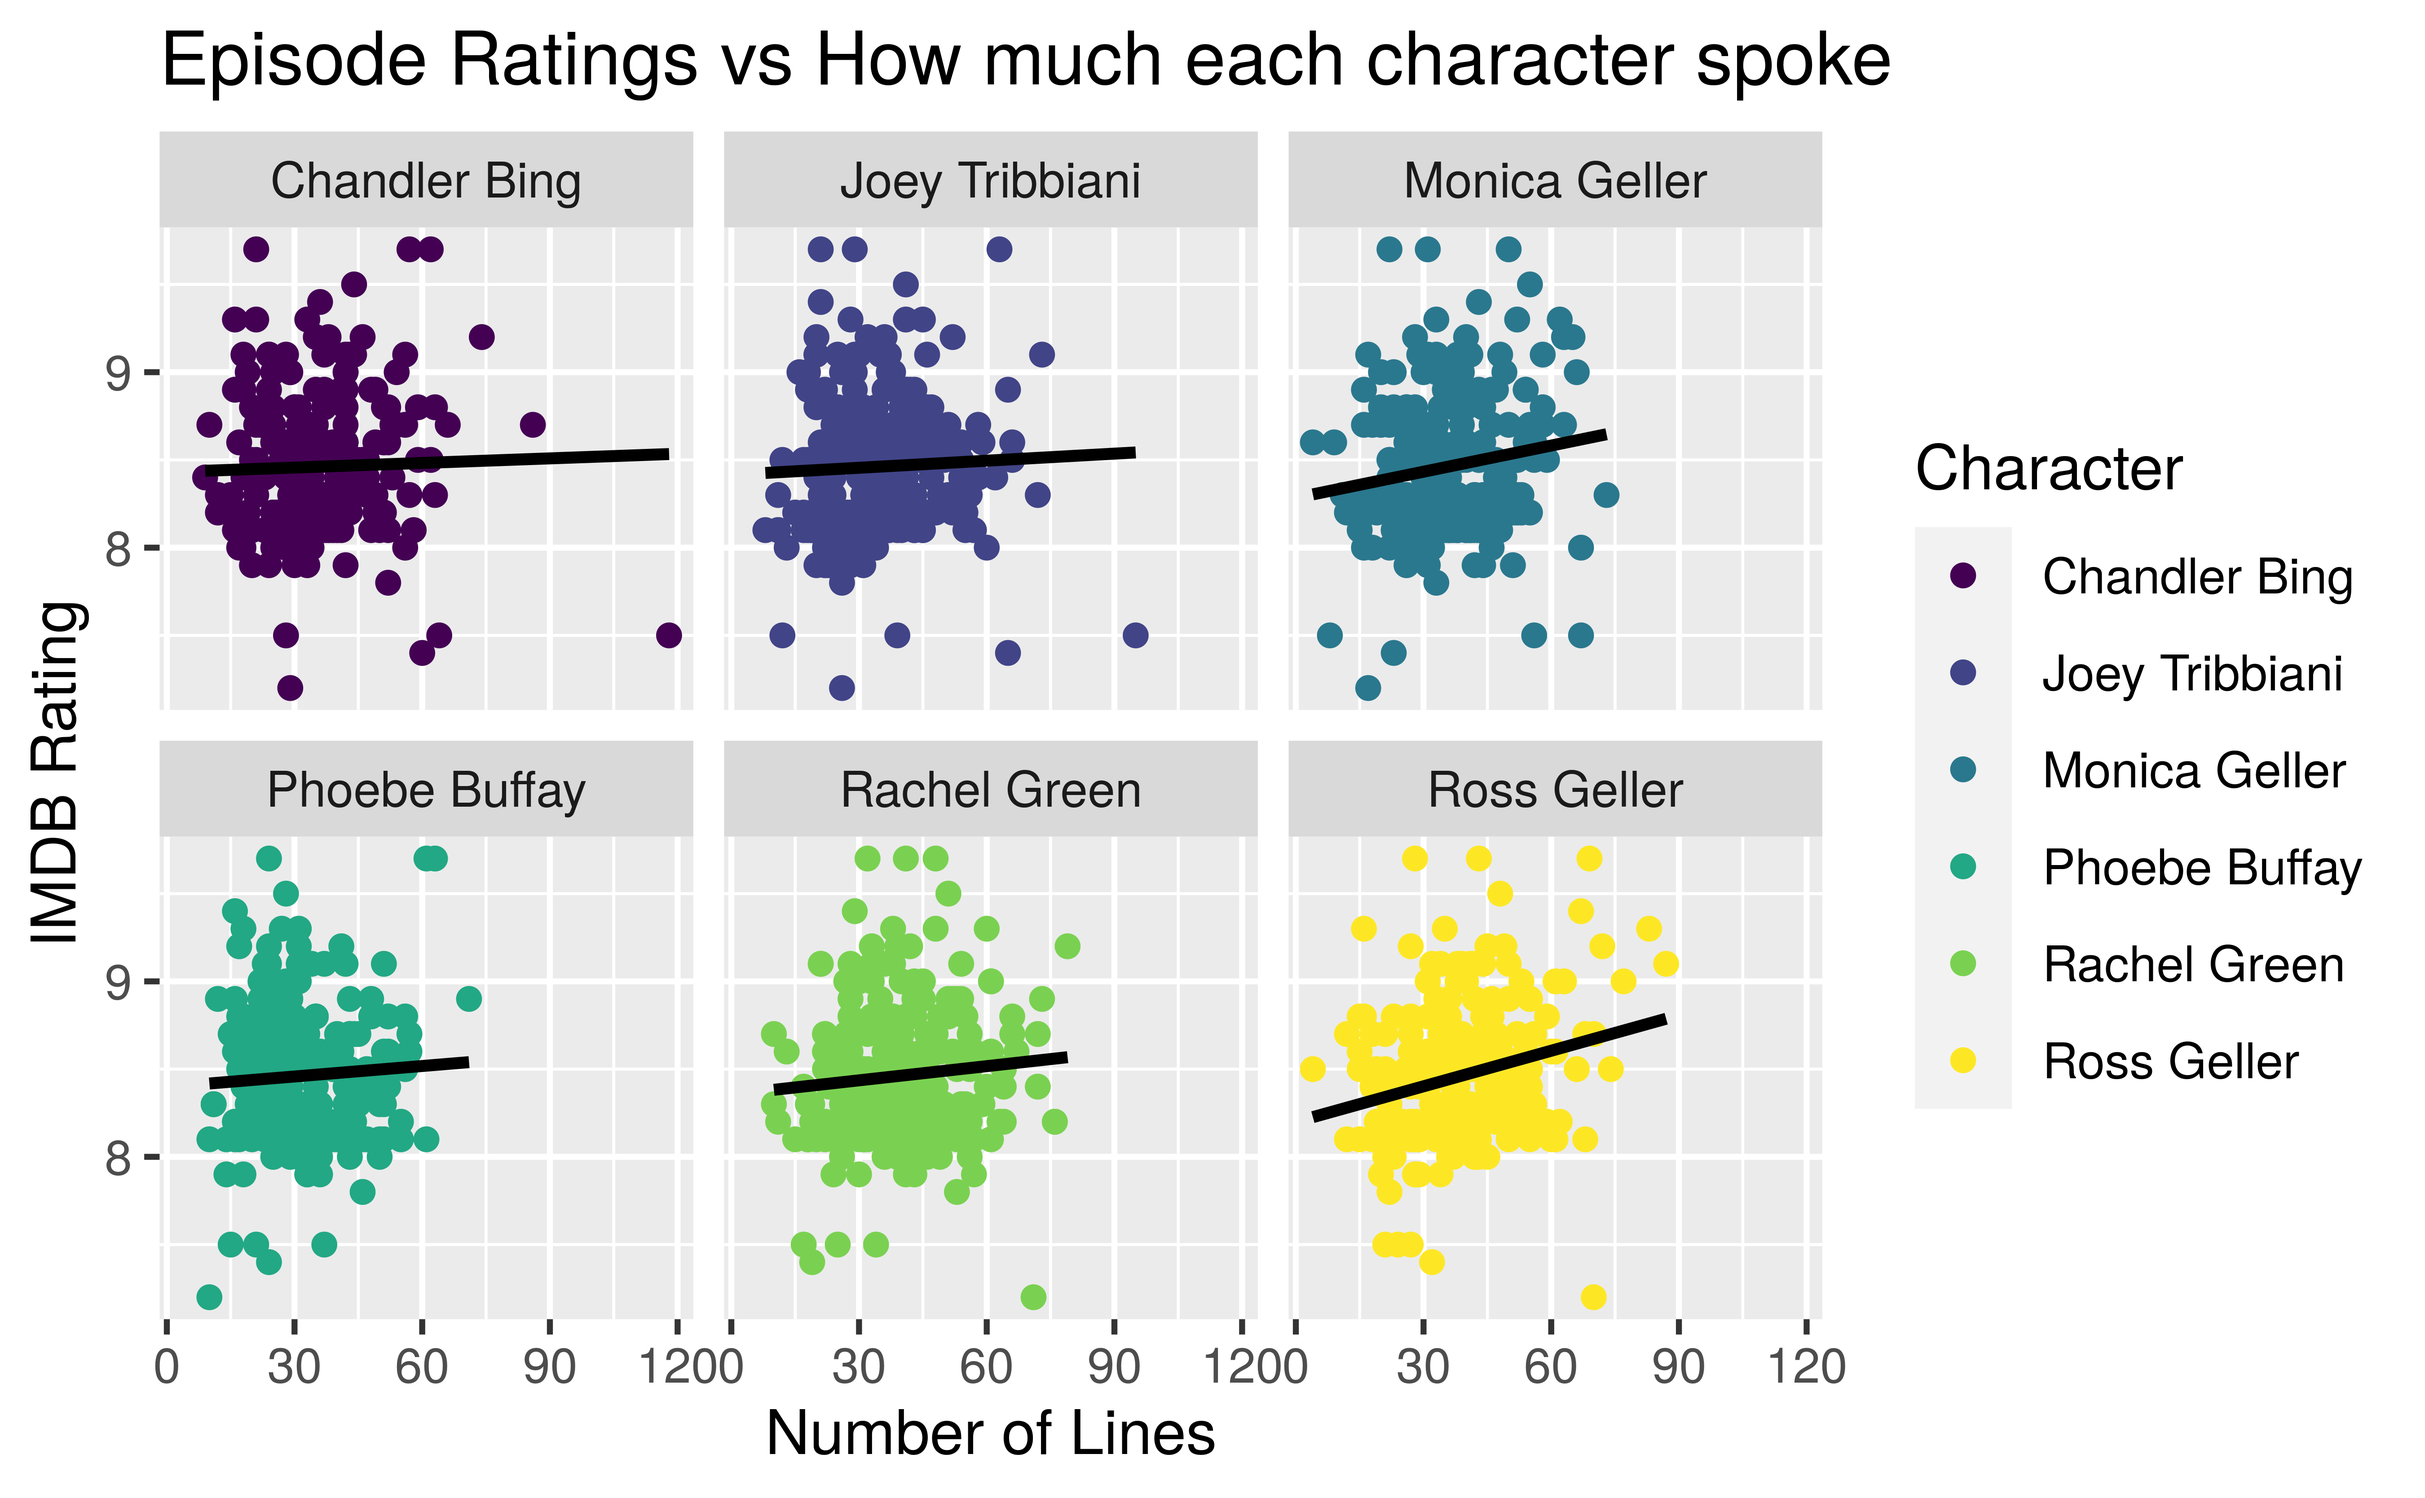
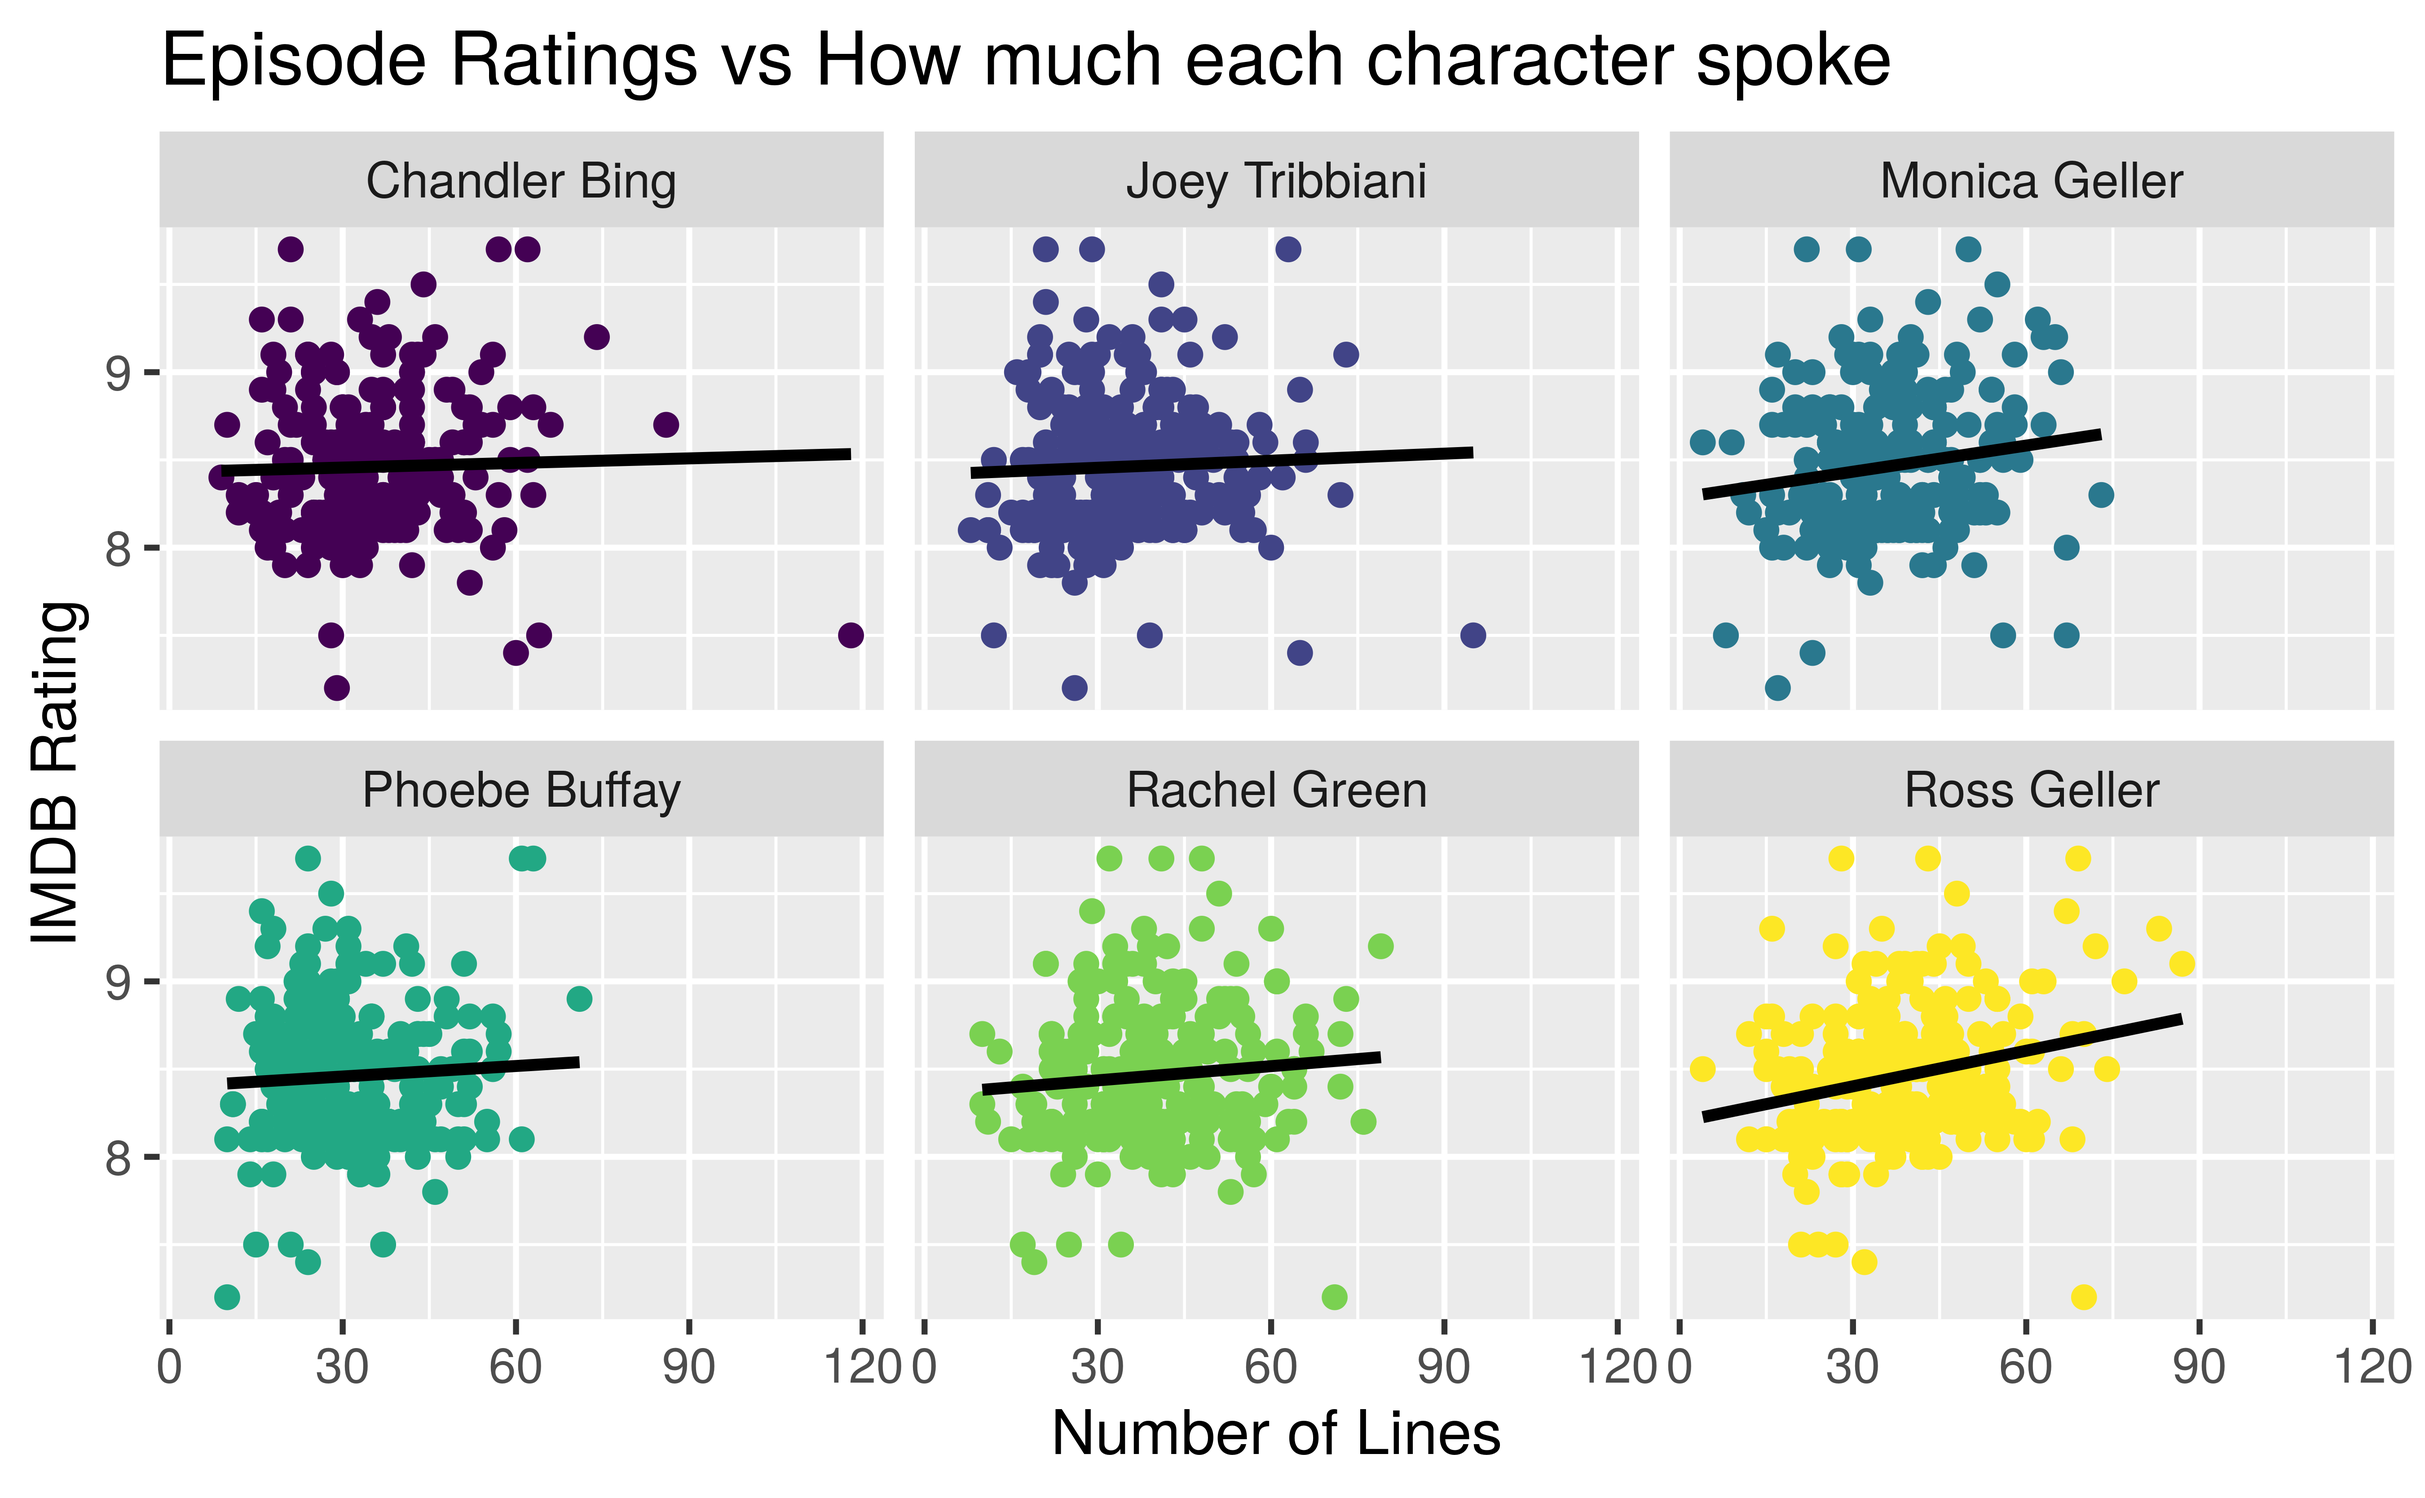
tone visualisation

diff --git a/presentation/presentation.html b/presentation/presentation.html
@@ -43,12 +43,18 @@ class: inverse, middle, center
 # Characters
 
 
-```
-## # A tibble: 2 x 5
-##   term        estimate std.error statistic  p.value
-##   &lt;chr&gt;          &lt;dbl&gt;     &lt;dbl&gt;     &lt;dbl&gt;    &lt;dbl&gt;
-## 1 (Intercept)  8.35     0.0308      271.   0       
-## 2 n            0.00306  0.000804      3.81 0.000148
+We should prob do something with regression here before we show the plot? -- i'm trying to 
+find the slope for each speaker and its not working
+
+```r
+#friends_wanted_l &lt;- linear_reg() %&gt;%
+#  set_engine("lm") %&gt;%
+#  fit(imdb_rating ~ n, data = friends_wanted)
+friends_wanted_lr &lt;- friends_wanted %&gt;% 
+  group_by(speaker) %&gt;% 
+  nest() %&gt;% 
+  mutate(model = map(data, ~lm(imdb_rating ~ n, data = friends_wanted))) #) %&gt;% 
+ # unnest()
 ```
 
 ---
@@ -61,7 +67,7 @@ class: inverse, middle, center
 ---
 # Tone
 
-
+&lt;img src="presentation_files/figure-html/tone-vs-imdb-rating-1.png" width="80%" /&gt;
 ---
 
 # Layouts
